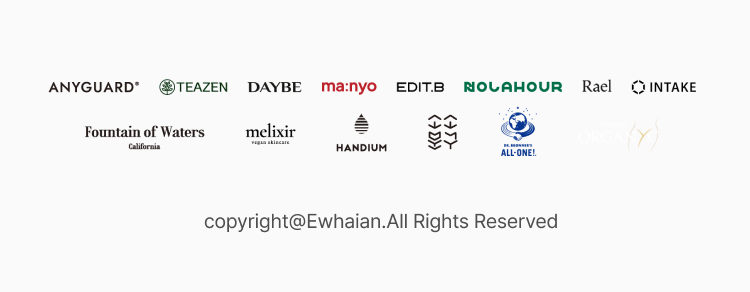
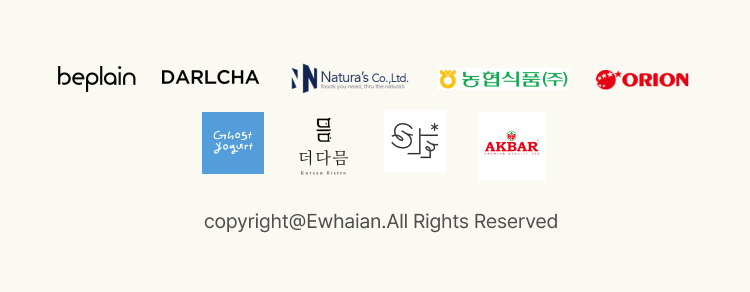
Footer 이미지 수정, 안되는 기능 제외

diff --git a/client/src/components/views/eventinformation/eventinformationstyle.css b/client/src/components/views/eventinformation/eventinformationstyle.css
@@ -1,60 +1,74 @@
-    .postertext,.date,.datetext, .map,.help,.aboutmanagement,.line-image{
+    .postertext,
+    .date,
+    .datetext,
+    .map,
+    .help,
+    .aboutmanagement,
+    .line-image {
         margin: 0 auto;
-        width:90%;
+        width: 90%;
 
     }
-    .eventinformation-container{
+
+    .eventinformation-container {
         width: 100%;
-        padding-top: 50px; 
-    }
-  .titletext{
-      margin-top: 5.2%;
-      margin-left: 5.3%;
-      font-size: 250%;
-      font-weight: bold;
-    }
-    .ei-title-image{
-      width: 6%;
-      height: 7%;
+        padding-top: 50px;
     }
 
-    .ei-clover-image{
+    .titletext {
+        margin-top: 5.2%;
+        margin-left: 5.3%;
+        font-size: 250%;
+        font-weight: bold;
+    }
+
+    .ei-title-image {
+        width: 6%;
+        height: 7%;
+    }
+
+    .ei-clover-image {
         width: 35px;
         height: 35px;
         box-sizing: border-box;
-        
+
     }
-    .line-image{
+
+    .line-image {
         width: 90%;
         margin-left: 5%;
     }
 
-    .eiposter{
+    .eiposter {
         display: flex;
         justify-content: space-between;
-        width:100%;
+        width: 100%;
         margin-top: 40px;
     }
-    .leftposter-image{
+
+    .leftposter-image {
         width: 12%;
         height: auto;
     }
-    .poster-image{
+
+    .poster-image {
         width: 65%;
         height: auto
     }
-    .rightposter-image{
+
+    .rightposter-image {
         width: 12%;
-        height:  auto;
+        height: auto;
     }
-    .postertext{
+
+    .postertext {
         margin-top: 20px;
         font-family: 'Gowun Dodum';
     }
 
-    .ei-title{
+    .ei-title {
         display: flex;
-        height: 35px;  
+        height: 35px;
         margin-bottom: 5%;
         font-size: 22px;
         font-weight: bold;
@@ -62,36 +76,41 @@
         box-sizing: border-box;
     }
 
-    .date{
+    .date {
         margin-top: 7%;
         font-family: 'Gowun Dodum';
     }
 
-    .datetext{
+    .datetext {
         font-size: 16px;
         margin-left: 0;
     }
-    .date1text{
+
+    .date1text {
         margin-bottom: 15px;
         font-weight: 550;
     }
-    .date2text{
-        line-height: 1.8; 
+
+    .date2text {
+        line-height: 1.8;
     }
 
 
-    .map{
+    .map {
         margin-top: 20px;
         font-family: 'Gowun Dodum';
     }
-    .maptext1{
+
+    .maptext1 {
         font-size: 16px;
         font-weight: 550;
     }
-    .mptext2{
+
+    .mptext2 {
         font-size: 14px;
     }
-    .map-image{
+
+    .map-image {
         margin-top: 20px;
         width: 100%;
         height: auto;
@@ -99,50 +118,58 @@
     }
 
 
-    .help{
+    .help {
         font-family: 'Gowun Dodum';
         margin-top: 20px;
     }
-    .helplogo-image{
+
+    .helplogo-image {
         margin-top: 12%;
     }
-    .help-text{
+
+    .help-text {
         font-size: 16px;
         font-weight: "pretendard";
         line-height: 33px;
         letter-spacing: 1px;
     }
-    .aboutmanagement{
+
+    .aboutmanagement {
         font-family: 'Gowun Dodum';
         margin-top: 5%;
-        margin-bottom: 60px;
+        /* margin-bottom: 60px; */
     }
-    .amtext{
+
+    .amtext {
         margin-top: 2%;
     }
-    .number{
+
+    .number {
         font-size: 20px;
         font-weight: bold;
-        text-decoration:underline;
+        text-decoration: underline;
         margin-bottom: 10px;
     }
 
-.eitxt{
-    margin-left: 15px;
-    margin-top: 6.5px;
-    box-sizing: border-box;
+    .eitxt {
+        margin-left: 15px;
+        margin-top: 6.5px;
+        box-sizing: border-box;
 
-}
-
-
-.item-41, .item-42, .item-43, .item-44 {
-    margin-bottom: 20px;
-}
-
-@media screen and (min-width:840px) {
-
-    .eventinformation-container {
-        width: 500px;
-        margin: 0 auto;
     }
-}
+
+
+    .item-41,
+    .item-42,
+    .item-43,
+    .item-44 {
+        margin-bottom: 20px;
+    }
+
+    @media screen and (min-width:840px) {
+
+        .eventinformation-container {
+            width: 500px;
+            margin: 0 auto;
+        }
+    }

diff --git a/client/src/components/Others/SideBar.js b/client/src/components/Others/SideBar.js
@@ -57,7 +57,9 @@ function SideBar({ show }) {
 
                     <div className="border"></div>
                 </div>
-                <div className="sidebar_ticket" >
+
+                {/* 티켓 확인 및 주문확인으로 들어가는 링크가 있는 곳 */}
+                {/* <div className="sidebar_ticket" >
                     <div className="ticket_title" >
                         <img src="/img/SideBar/ticket_icon.png" alt="ticket" className="ticket_icon" onClick={() => { if (isAuth) { navigate('/ticket') } else { alert("로그인 후 이용해주세요") } }} />
                         <div onClick={() => { if (isAuth) { navigate('/ticket', { state: isTicket }) } else { alert("로그인 후 이용해주세요") } }}>나의 티켓</div>
@@ -66,7 +68,7 @@ function SideBar({ show }) {
 
                     {isAuth && isTicket ? <img src="/img/SideBar/ticket_pic.png" alt="ticket" className="ticket_pic" onClick={() => { navigate('/ticket', { state: isTicket }) }} />
                         : <div></div>}
-                </div>
+                </div> */}
                 <ul>
                     <li>
                         <Link to="/eventinfo">행사 정보</Link>
